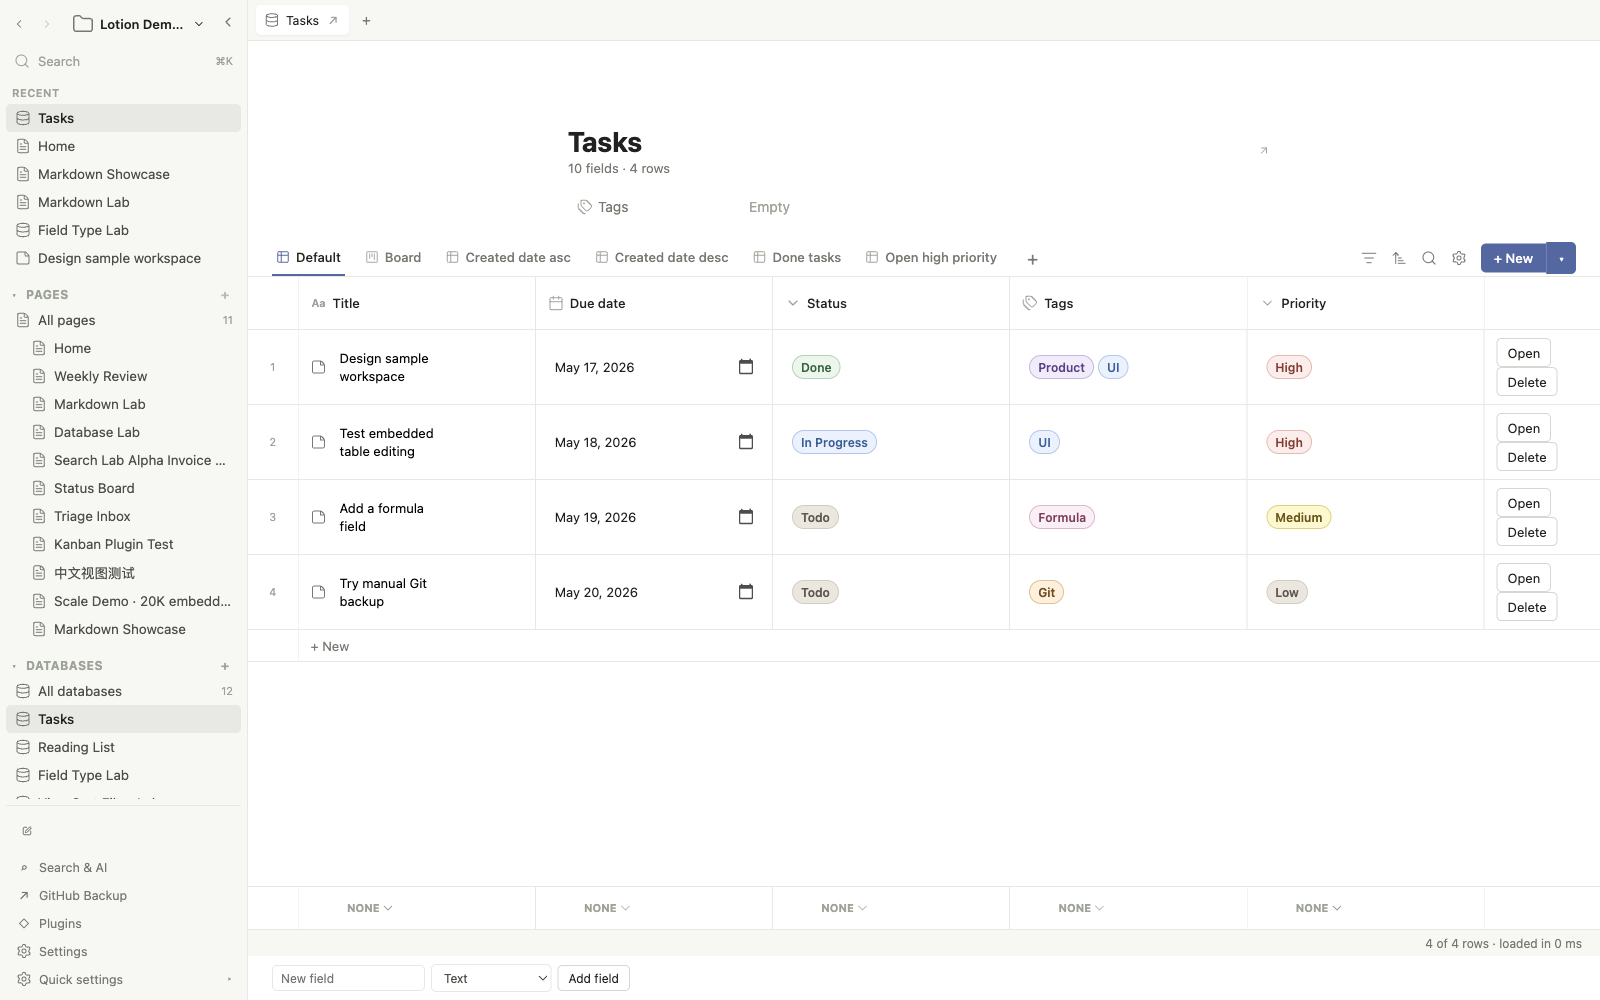
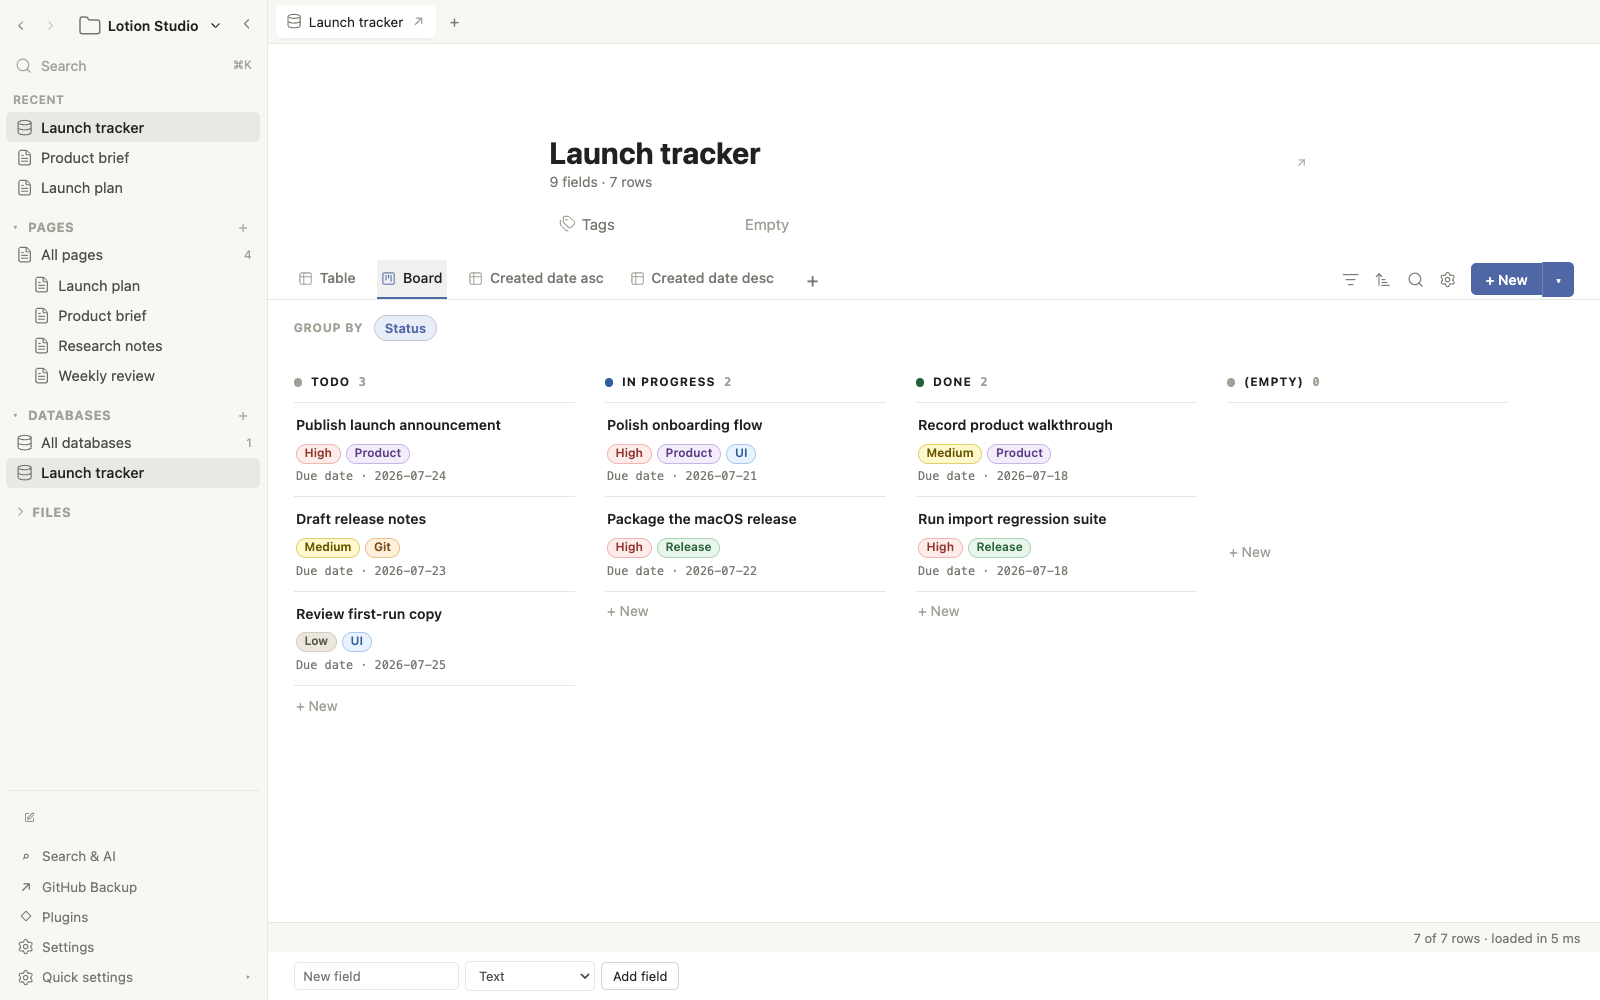
Improve website product screenshots

diff --git a/website/index.html b/website/index.html
@@ -24,7 +24,8 @@
     />
     <meta name="twitter:image" content="https://hu-xianglong.github.io/lotion/assets/lotion-home.png" />
     <title>Lotion — A workspace that belongs to you</title>
-    <link rel="stylesheet" href="styles.css" />
+    <link rel="icon" href="assets/favicon.svg" type="image/svg+xml" />
+    <link rel="stylesheet" href="styles.css?v=20260719-3" />
     <script src="app.js" defer></script>
   </head>
   <body>
@@ -32,7 +33,7 @@
 
     <header class="site-header">
       <a class="brand" href="#top" aria-label="Lotion home">
-        <span class="brand-mark" aria-hidden="true">L</span>
+        <img class="brand-mark" src="assets/lotion-logo.svg" alt="" width="29" height="29" />
         <span>Lotion</span>
       </a>
       <button class="menu-button" type="button" aria-label="Open navigation" aria-expanded="false">
@@ -61,13 +62,16 @@
             <a class="button button-quiet" href="#start">Run locally</a>
           </div>
         </div>
-        <img
-          class="hero-image"
-          src="assets/lotion-home.png"
-          alt="Lotion desktop app showing a local knowledge workspace"
-          width="1600"
-          height="1000"
-        />
+        <picture>
+          <source media="(max-width: 760px)" srcset="assets/lotion-home.png" />
+          <img
+            class="hero-image"
+            src="assets/lotion-hero.png"
+            alt="Lotion desktop app showing a local knowledge workspace"
+            width="1600"
+            height="460"
+          />
+        </picture>
         <p class="hero-caption">Markdown pages · CSV databases · Local attachments</p>
       </section>
 
@@ -238,7 +242,7 @@ npm run dev</code></pre>
 
     <footer class="site-footer">
       <div class="footer-brand">
-        <span class="brand-mark" aria-hidden="true">L</span>
+        <img class="brand-mark" src="assets/lotion-logo.svg" alt="" width="29" height="29" />
         <div><strong>Lotion</strong><span>Your workspace, in your files.</span></div>
       </div>
       <nav aria-label="Footer navigation">

diff --git a/website/styles.css b/website/styles.css
@@ -107,14 +107,8 @@ img {
 .brand-mark {
   width: 29px;
   height: 29px;
-  display: inline-grid;
-  place-items: center;
+  display: block;
   flex: 0 0 auto;
-  border-radius: 5px;
-  color: var(--paper);
-  background: var(--dark);
-  font-size: 16px;
-  font-weight: 800;
 }
 
 .site-nav {
@@ -543,6 +537,7 @@ img {
 
 .viewer-frame img {
   width: 100%;
+  height: auto;
   aspect-ratio: 16 / 10;
   object-fit: cover;
   object-position: top;
@@ -905,8 +900,10 @@ img {
   }
 
   .hero-image {
-    height: 38%;
-    object-position: 20% top;
+    height: 42%;
+    object-fit: contain;
+    object-position: center;
+    background: var(--dark);
   }
 
   .hero-caption {
@@ -994,8 +991,9 @@ img {
   }
 
   .viewer-frame img {
-    aspect-ratio: 4 / 3;
-    object-position: 18% top;
+    aspect-ratio: 16 / 10;
+    object-fit: contain;
+    object-position: center top;
   }
 
   .viewer-frame figcaption {